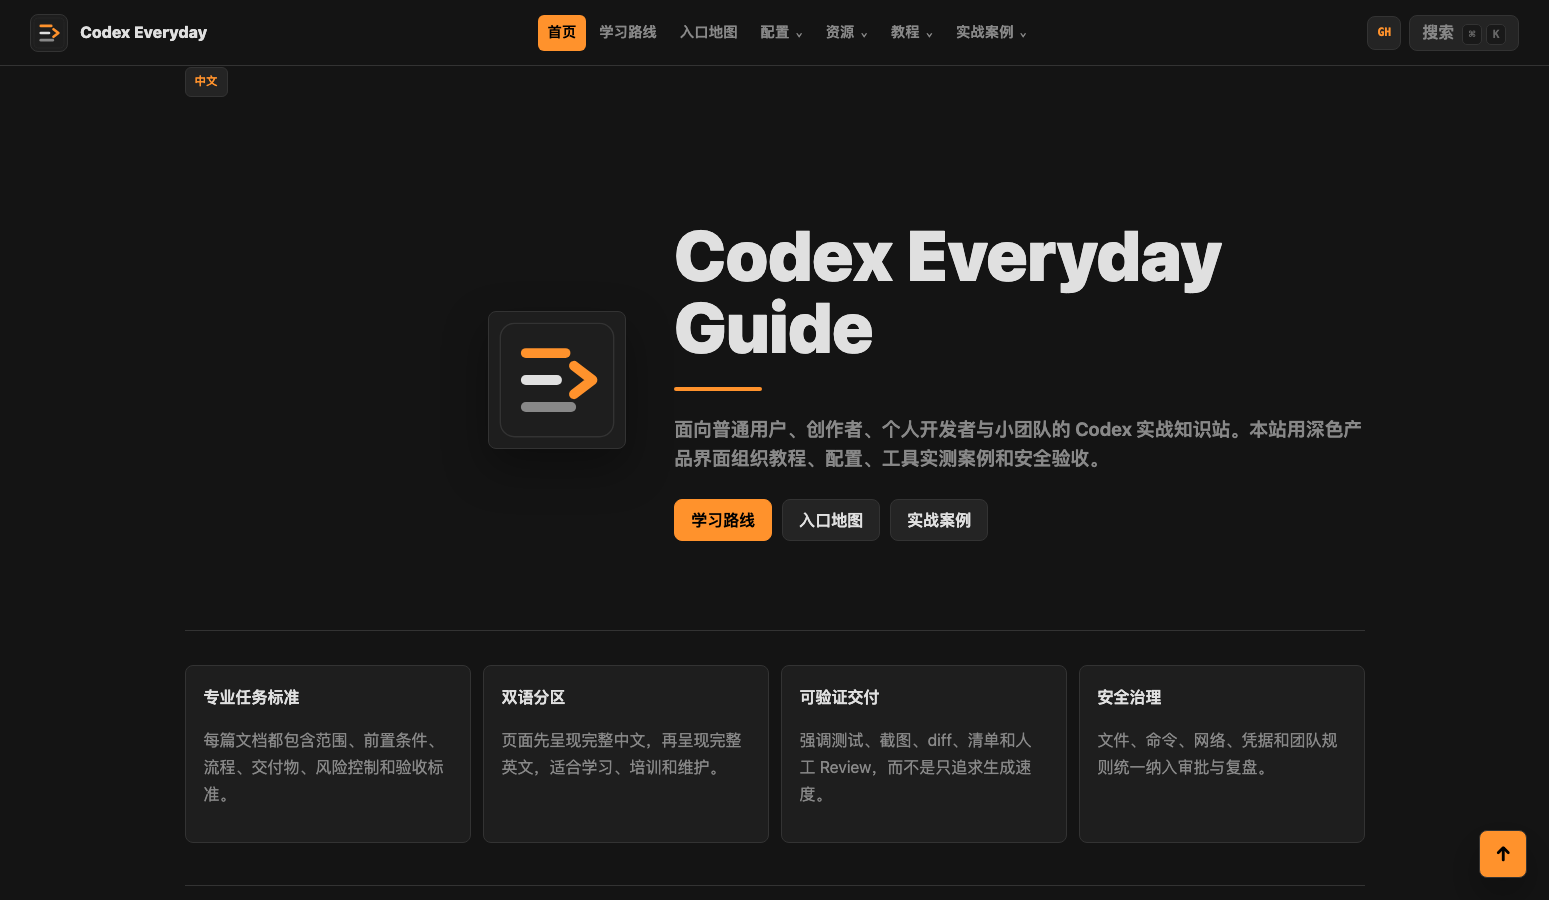
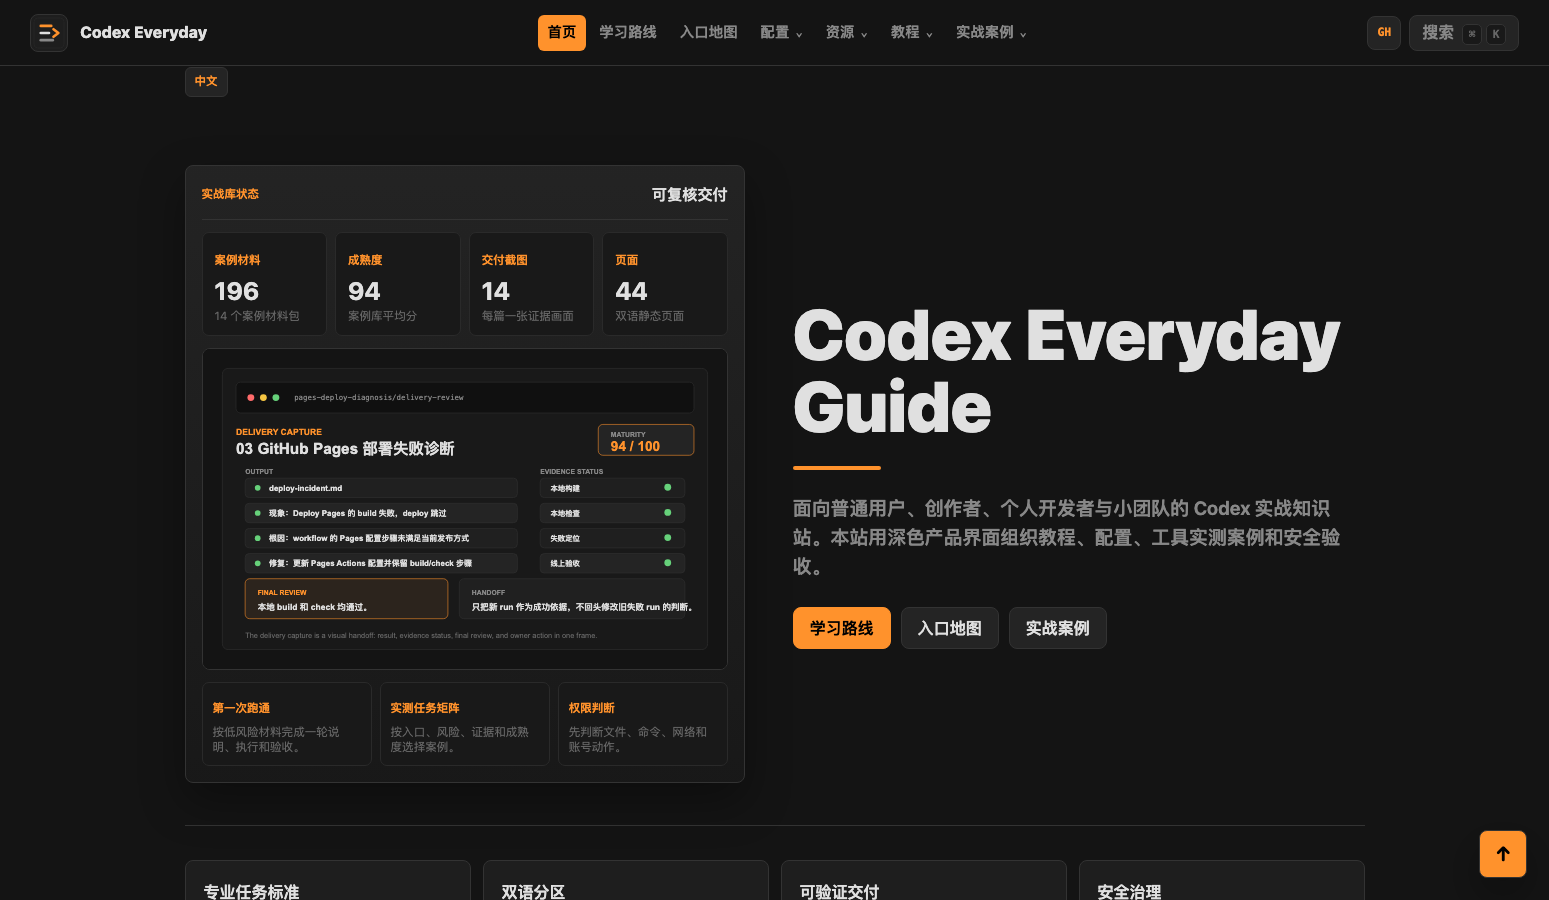
Upgrade home dashboard quality

diff --git a/styles.css b/styles.css
@@ -226,27 +226,116 @@ main {
 }
 
 .hero {
-  min-height: 520px;
+  min-height: 620px;
   display: grid;
-  grid-template-columns: 0.64fr 1fr;
+  grid-template-columns: minmax(0, 0.98fr) minmax(0, 1fr);
   align-items: center;
   gap: 48px;
-  padding: 74px 0 54px;
+  padding: 54px 0 42px;
+  border-bottom: 1px solid var(--line);
+  min-width: 0;
+}
+
+.home-ops-panel {
+  width: 100%;
+  min-width: 0;
+  overflow: hidden;
+  padding: 16px;
+  border: 1px solid var(--line);
+  border-radius: 8px;
+  background: linear-gradient(180deg, rgba(36, 36, 36, 0.98), rgba(25, 25, 25, 0.98));
+  box-shadow: var(--shadow);
+}
+
+.ops-panel-head {
+  display: flex;
+  align-items: center;
+  justify-content: space-between;
+  gap: 12px;
+  padding-bottom: 12px;
   border-bottom: 1px solid var(--line);
 }
 
-.hero-art {
-  display: flex;
-  justify-content: flex-end;
+.ops-panel-head span,
+.ops-stats span,
+.ops-links span {
+  color: var(--accent);
+  font-family: var(--mono);
+  font-size: 0.72rem;
+  font-weight: 900;
+  text-transform: uppercase;
 }
 
-.hero-art img {
-  width: 138px;
-  height: 138px;
+.ops-panel-head strong {
+  color: var(--ink);
+  font-size: 0.95rem;
+}
+
+.ops-stats {
+  display: grid;
+  grid-template-columns: repeat(4, minmax(0, 1fr));
+  gap: 8px;
+  margin-top: 12px;
+}
+
+.ops-stats article {
+  min-width: 0;
+  padding: 12px;
+  border: 1px solid var(--line-soft);
+  border-radius: 7px;
+  background: var(--panel-3);
+}
+
+.ops-stats strong {
+  display: block;
+  margin-top: 4px;
+  color: var(--ink);
+  font-size: 1.55rem;
+  line-height: 1.1;
+}
+
+.ops-stats small,
+.ops-links small {
+  display: block;
+  margin-top: 4px;
+  color: var(--subtle);
+  font-size: 0.72rem;
+  line-height: 1.35;
+}
+
+.ops-capture {
+  margin: 12px 0 0;
+  overflow: hidden;
   border: 1px solid var(--line);
   border-radius: 8px;
-  background: var(--panel);
-  box-shadow: var(--shadow);
+  background: #101010;
+}
+
+.ops-capture img {
+  display: block;
+  width: 100%;
+  height: auto;
+  min-width: 0;
+}
+
+.ops-links {
+  display: grid;
+  grid-template-columns: repeat(3, minmax(0, 1fr));
+  gap: 8px;
+  margin-top: 12px;
+}
+
+.ops-links a {
+  min-width: 0;
+  padding: 10px;
+  border: 1px solid var(--line-soft);
+  border-radius: 7px;
+  background: var(--panel-3);
+  text-decoration: none;
+}
+
+.ops-links a:hover {
+  border-color: var(--accent);
 }
 
 .hero-copy h1 {
@@ -257,6 +346,10 @@ main {
   font-weight: 900;
   line-height: 1.02;
   letter-spacing: 0;
+}
+
+.hero-copy {
+  min-width: 0;
 }
 
 .hero-copy h1::after {
@@ -276,6 +369,7 @@ main {
   font-size: 1.18rem;
   font-weight: 650;
   line-height: 1.55;
+  overflow-wrap: anywhere;
 }
 
 .hero-actions,
@@ -1723,8 +1817,13 @@ main {
     font-size: 2.9rem;
   }
 
-  .hero-art {
-    justify-content: flex-start;
+  .hero-copy {
+    order: -1;
+  }
+
+  .ops-stats,
+  .ops-links {
+    grid-template-columns: 1fr;
   }
 
   .feature-grid,
@@ -1777,6 +1876,10 @@ main {
 }
 
 @media (max-width: 520px) {
+  main {
+    overflow: hidden;
+  }
+
   .site-header {
     min-height: 62px;
   }
@@ -1793,11 +1896,22 @@ main {
   }
 
   .hero-copy h1 {
-    font-size: 2.35rem;
+    max-width: 100%;
+    overflow-wrap: break-word;
+    font-size: 2.05rem;
+  }
+
+  .hero-copy,
+  .hero-copy p,
+  .hero-actions,
+  .home-ops-panel {
+    width: 100%;
+    max-width: calc(100vw - 28px);
   }
 
   .hero-copy p {
     font-size: 1rem;
+    word-break: break-all;
   }
 
   .button,

diff --git a/index.html b/index.html
@@ -59,9 +59,61 @@
       <section class="language-section home-language-section" lang="zh-CN" data-language-section="zh">
         <p class="language-kicker">中文</p>
         <section class="hero">
-          <div class="hero-art">
-            <img src="assets/logo.svg" alt="Codex Everyday Guide Logo">
-          </div>
+
+    <div class="home-ops-panel" aria-label="案例库状态面板">
+      <div class="ops-panel-head">
+        <span>实战库状态</span>
+        <strong>可复核交付</strong>
+      </div>
+      <div class="ops-stats">
+
+          <article>
+            <span>案例材料</span>
+            <strong>196</strong>
+            <small>14 个案例材料包</small>
+          </article>
+
+          <article>
+            <span>成熟度</span>
+            <strong>94</strong>
+            <small>案例库平均分</small>
+          </article>
+
+          <article>
+            <span>交付截图</span>
+            <strong>14</strong>
+            <small>每篇一张证据画面</small>
+          </article>
+
+          <article>
+            <span>页面</span>
+            <strong>44</strong>
+            <small>双语静态页面</small>
+          </article>
+
+      </div>
+      <figure class="ops-capture">
+        <img src="assets/case-artifacts/pages-deploy-diagnosis/13-delivery-capture.svg" alt="部署诊断交付截图">
+      </figure>
+      <div class="ops-links">
+
+          <a href="guide/05-first-task.html">
+            <span>第一次跑通</span>
+            <small>按低风险材料完成一轮说明、执行和验收。</small>
+          </a>
+
+          <a href="recipes/index.html">
+            <span>实测任务矩阵</span>
+            <small>按入口、风险、证据和成熟度选择案例。</small>
+          </a>
+
+          <a href="guide/07-permission-review.html">
+            <span>权限判断</span>
+            <small>先判断文件、命令、网络和账号动作。</small>
+          </a>
+
+      </div>
+    </div>
           <div class="hero-copy">
             <h1>Codex Everyday Guide</h1>
             <p>面向普通用户、创作者、个人开发者与小团队的 Codex 实战知识站。本站用深色产品界面组织教程、配置、工具实测案例和安全验收。</p>
@@ -140,7 +192,7 @@
             <article>
               <span>材料包</span>
               <strong>14 组 / 196 个文件</strong>
-              <p>每个案例生成输入任务单、证据 CSV、结果片段、验收 runbook、执行转录、交付预览、前后对比、质量评分、操作回放、人工交接、现场图、验收总账和证据看板。</p>
+              <p>每个案例生成输入任务单、证据 CSV、结果片段、验收 runbook、执行转录、交付预览、前后对比、质量评分、操作回放、人工交接、现场图、验收总账、交付截图和证据看板。</p>
             </article>
 
             <article>
@@ -265,9 +317,61 @@
       <section class="language-section home-language-section english-section" lang="en" data-language-section="en">
         <p class="language-kicker">English</p>
         <section class="hero">
-          <div class="hero-art">
-            <img src="assets/logo.svg" alt="Codex Everyday Guide Logo">
-          </div>
+
+    <div class="home-ops-panel" aria-label="Recipe library status panel">
+      <div class="ops-panel-head">
+        <span>Recipe Library</span>
+        <strong>Reviewable Delivery</strong>
+      </div>
+      <div class="ops-stats">
+
+          <article>
+            <span>Artifacts</span>
+            <strong>196</strong>
+            <small>14 recipe packs</small>
+          </article>
+
+          <article>
+            <span>Maturity</span>
+            <strong>94</strong>
+            <small>Library average</small>
+          </article>
+
+          <article>
+            <span>Captures</span>
+            <strong>14</strong>
+            <small>One evidence frame each</small>
+          </article>
+
+          <article>
+            <span>Pages</span>
+            <strong>44</strong>
+            <small>Bilingual static pages</small>
+          </article>
+
+      </div>
+      <figure class="ops-capture">
+        <img src="assets/case-artifacts/pages-deploy-diagnosis/13-delivery-capture.svg" alt="Deployment diagnosis delivery capture">
+      </figure>
+      <div class="ops-links">
+
+          <a href="guide/05-first-task.html">
+            <span>First Run</span>
+            <small>Complete one low-risk brief, execution, and acceptance loop.</small>
+          </a>
+
+          <a href="recipes/index.html">
+            <span>Task Matrix</span>
+            <small>Choose recipes by entry, risk, evidence, and maturity.</small>
+          </a>
+
+          <a href="guide/07-permission-review.html">
+            <span>Permission Review</span>
+            <small>Judge file, command, network, and account actions first.</small>
+          </a>
+
+      </div>
+    </div>
           <div class="hero-copy">
             <h1>Codex Everyday Guide</h1>
             <p>A practical Codex knowledge site for everyday users, creators, individual developers, and small teams. The site uses a dark product interface for guides, configuration, tool-tested recipes, and safety acceptance.</p>
@@ -346,7 +450,7 @@
             <article>
               <span>Artifact pack</span>
               <strong>14 sets / 196 files</strong>
-              <p>Every recipe generates an input brief, evidence CSV, result sample, acceptance runbook, execution transcript, delivery preview, before/after file, quality scorecard, operation replay, human handoff, field snapshot, acceptance ledger, and evidence board.</p>
+              <p>Every recipe generates an input brief, evidence CSV, result sample, acceptance runbook, execution transcript, delivery preview, before/after file, quality scorecard, operation replay, human handoff, field snapshot, acceptance ledger, delivery capture, and evidence board.</p>
             </article>
 
             <article>

diff --git a/README.md b/README.md
@@ -55,7 +55,7 @@ https://edmund-xl.github.io/CodexGuide/
 
 ### 页面截图
 
-首页展示深色产品界面、中文优先内容结构和主要入口。
+首页展示深色产品界面、案例库状态面板、交付截图预览和主要入口。
 
 ![首页截图](assets/screenshots/home.png)
 
@@ -152,7 +152,7 @@ https://edmund-xl.github.io/CodexGuide/
 
 ### Screenshots
 
-The home page shows the dark product interface, Chinese-first content structure, and primary entry points.
+The home page shows the dark product interface, recipe-library status panel, delivery capture preview, and primary entry points.
 
 ![Home page screenshot](assets/screenshots/home.png)
 